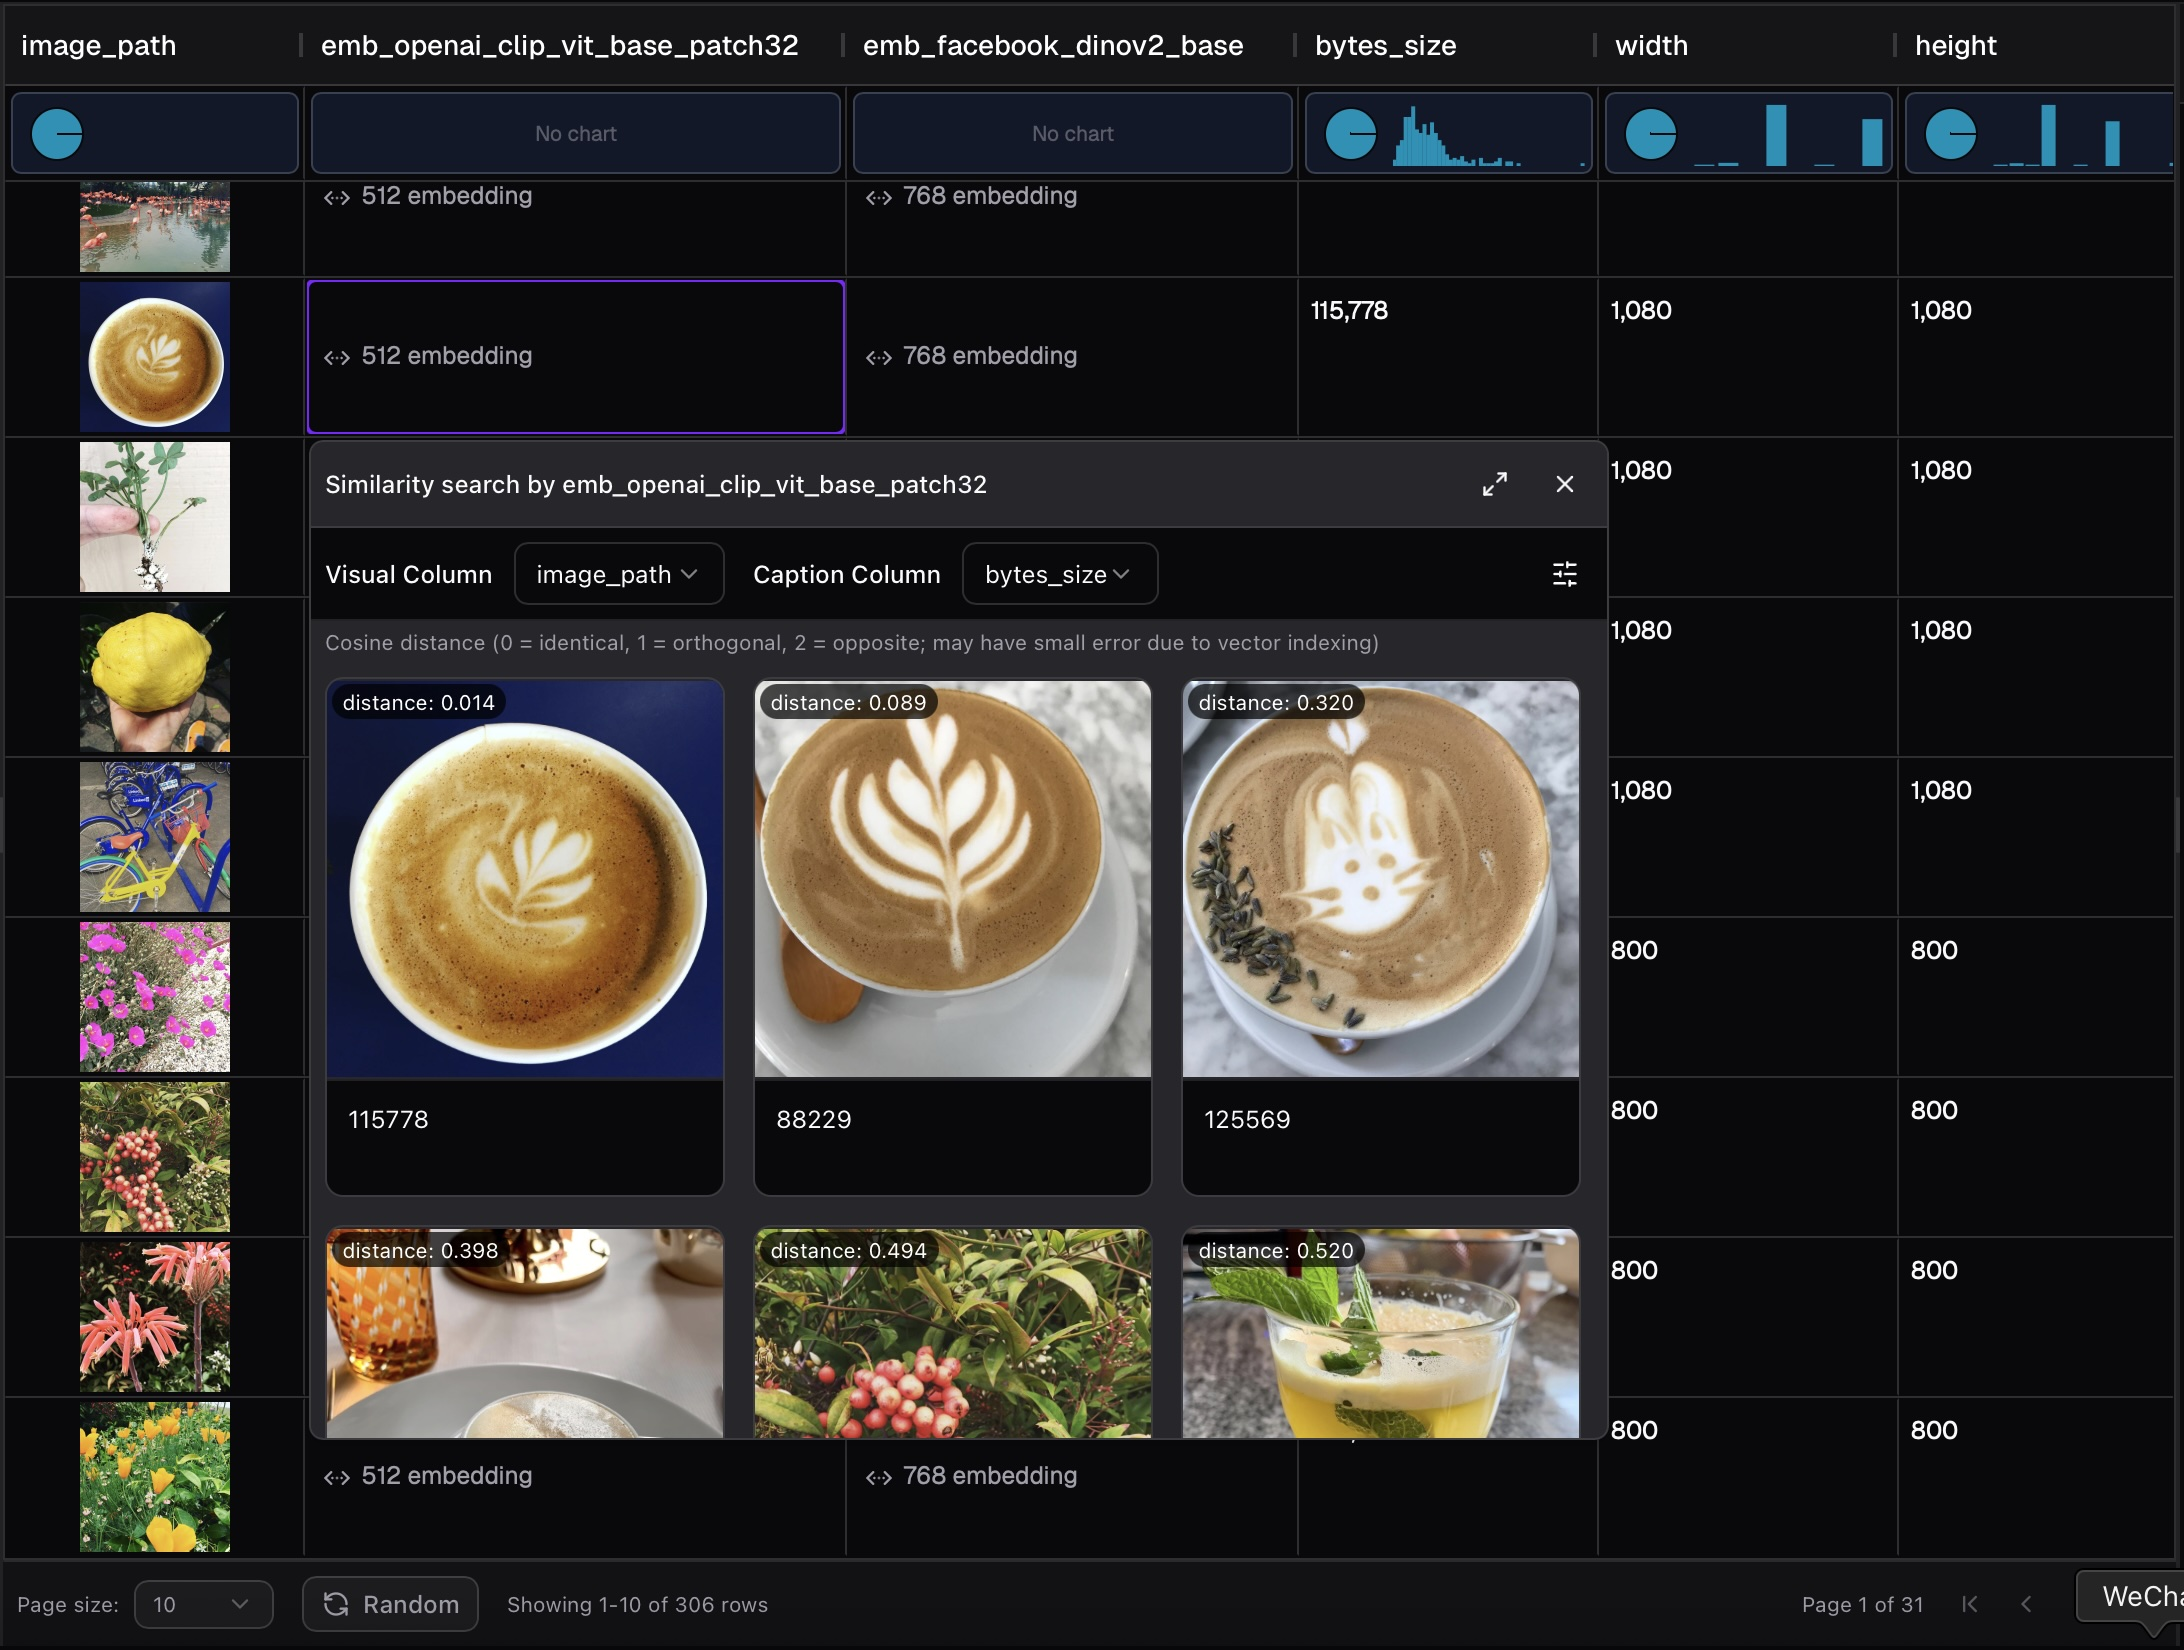
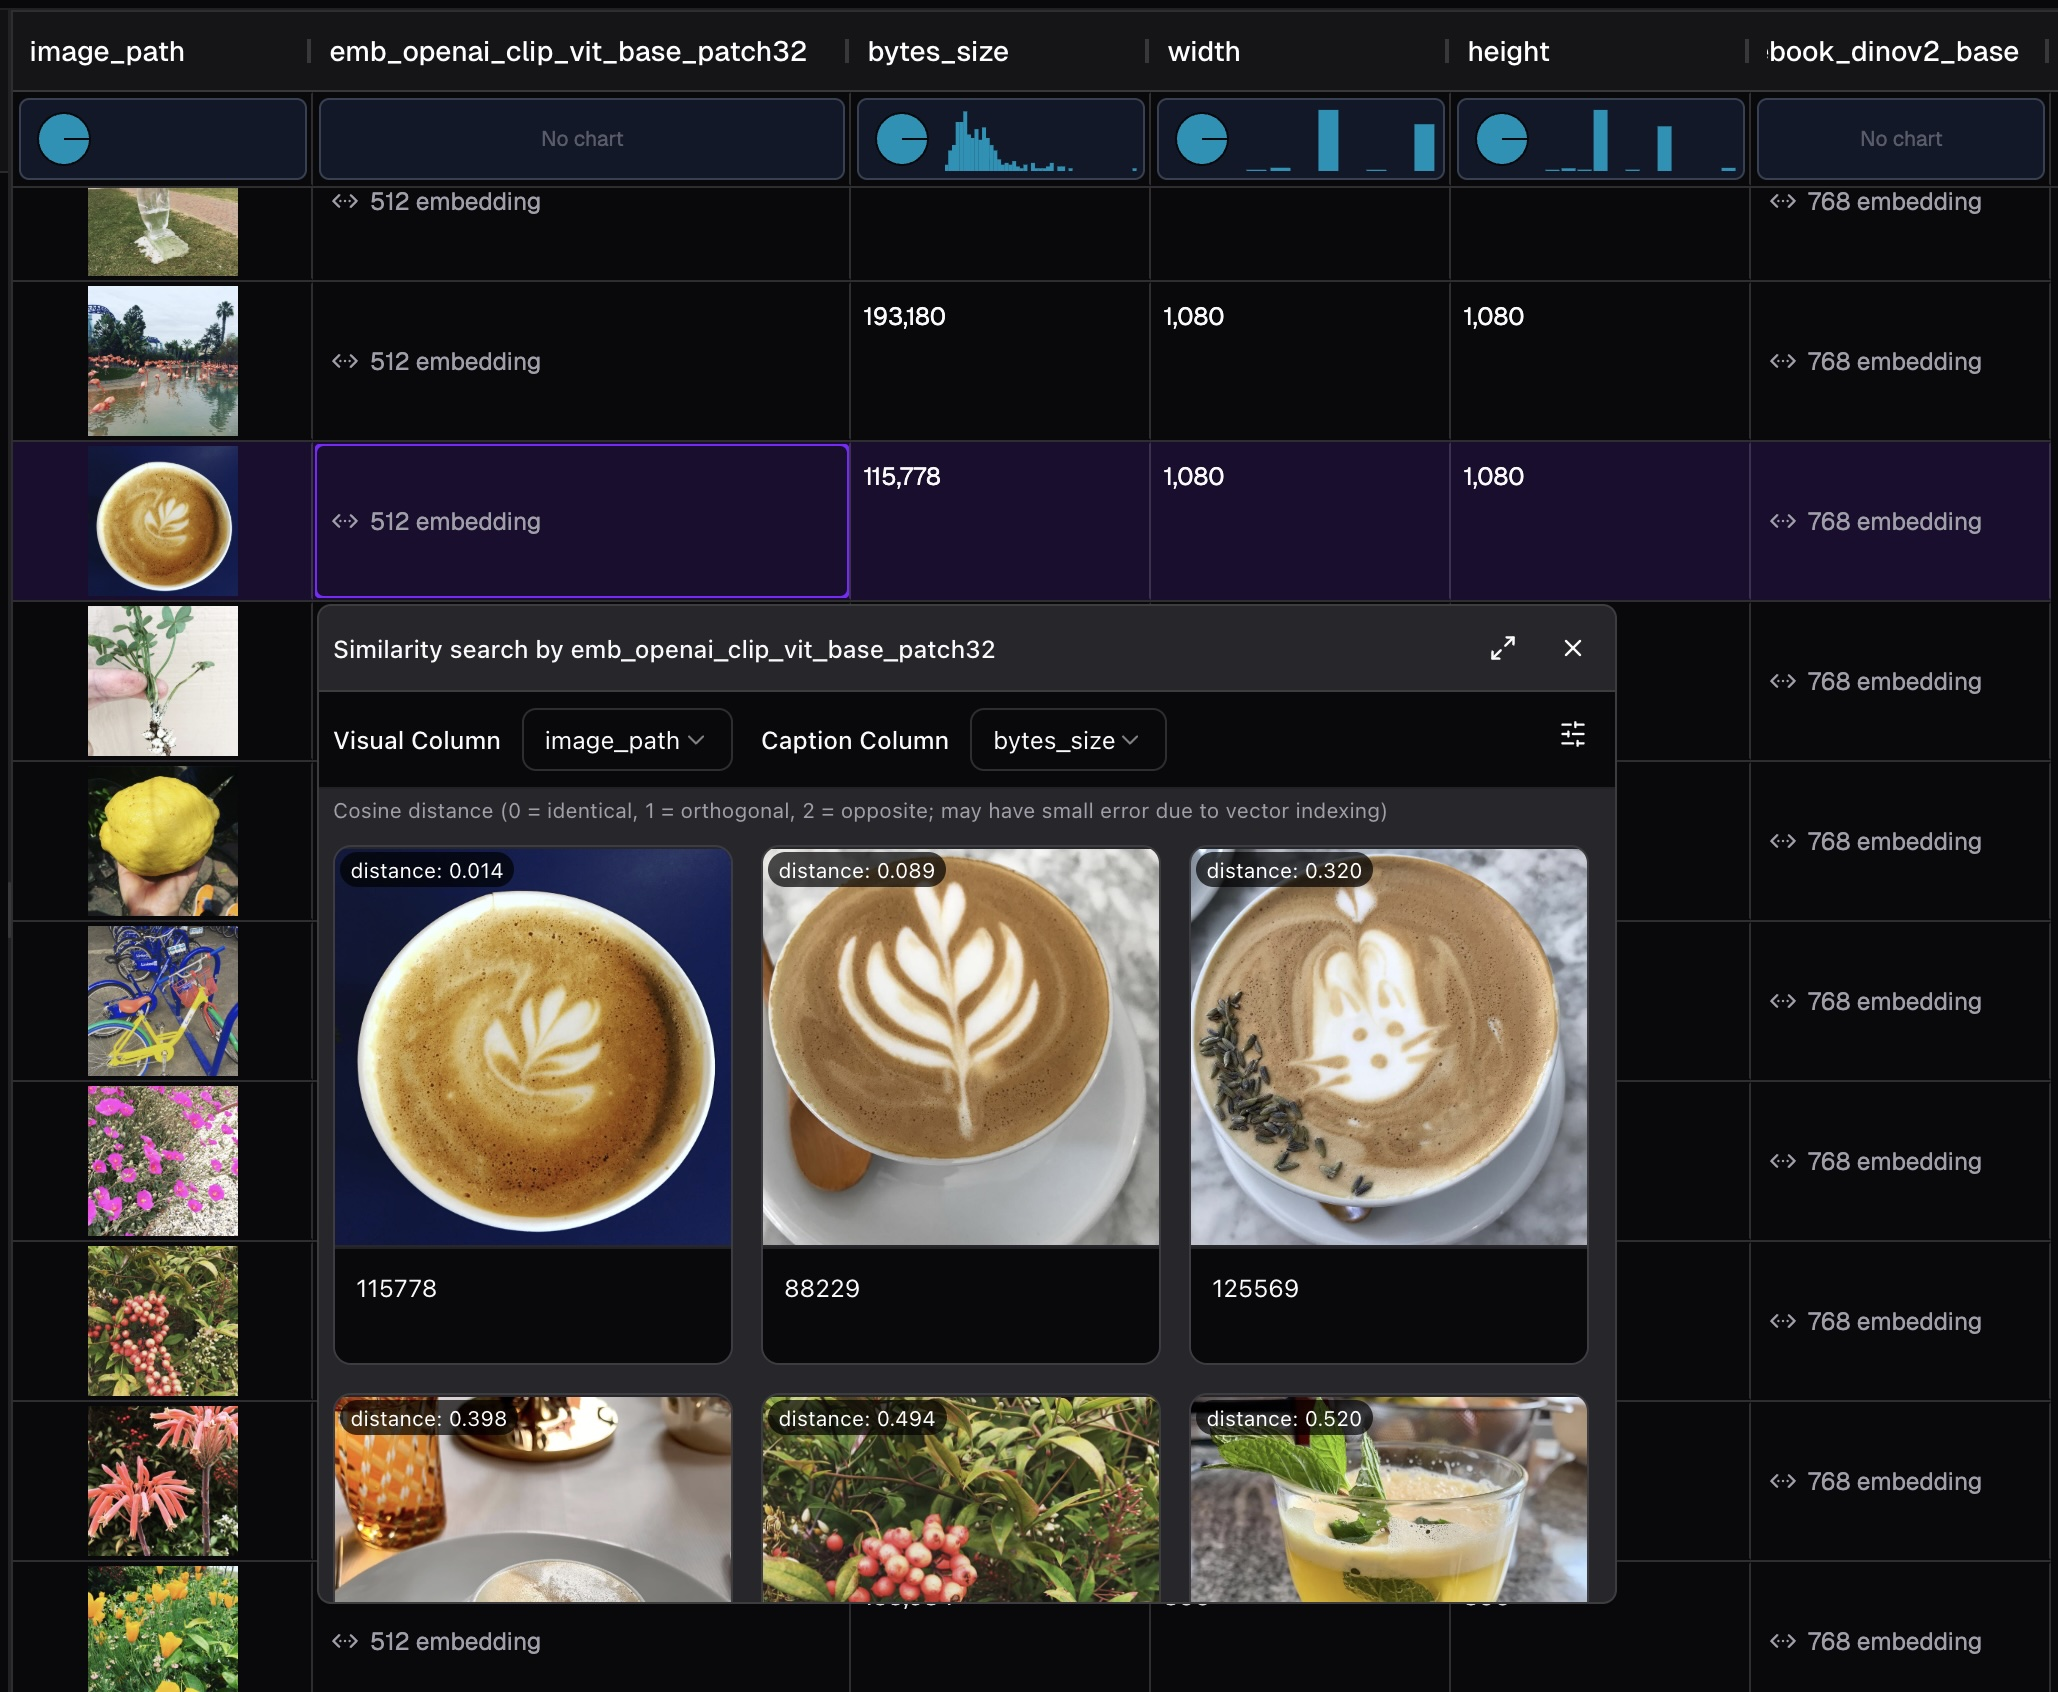
Updated image and url

diff --git a/landing/public/content/docs/embedding.md b/landing/public/content/docs/embedding.md
@@ -51,9 +51,7 @@ Usage: parquet-to-lance [OPTIONS] PARQUET_PATH LANCE_PATH
 SmooSense integrated vector search with [Lance index](https://docs.lancedb.com/indexing/vector-index).
 When a vector index is found, you can run vector search with a single click.
 
-![](/images/emb/emb-search.jpg)
-
-Try yourself: [link](https://demo.smoosense.ai/Table?tablePath=s3%3A%2F%2Fsmoosense-demo%2Fembedding%2Fphotos%2Fimages_table.lance)
+[![](/images/emb/emb-search.jpg)](https://demo.smoosense.ai/Table?tablePath=s3%3A%2F%2Fsmoosense-demo%2Fembedding%2Fphotos%2Fimages_table.lance)
 
 ## Interactive UMAP visualization
 [UMAP](https://umap-learn.readthedocs.io/) (Uniform Manifold Approximation and Projection) reduces high-dimensional embeddings
